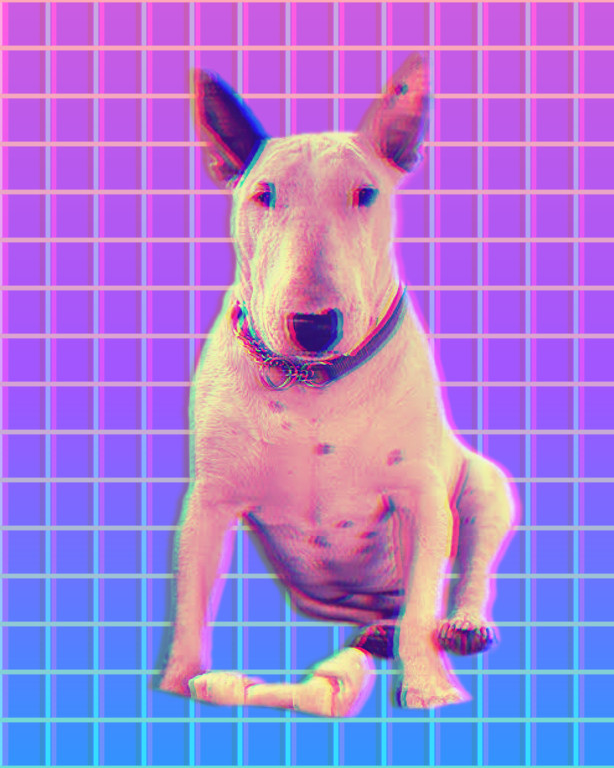
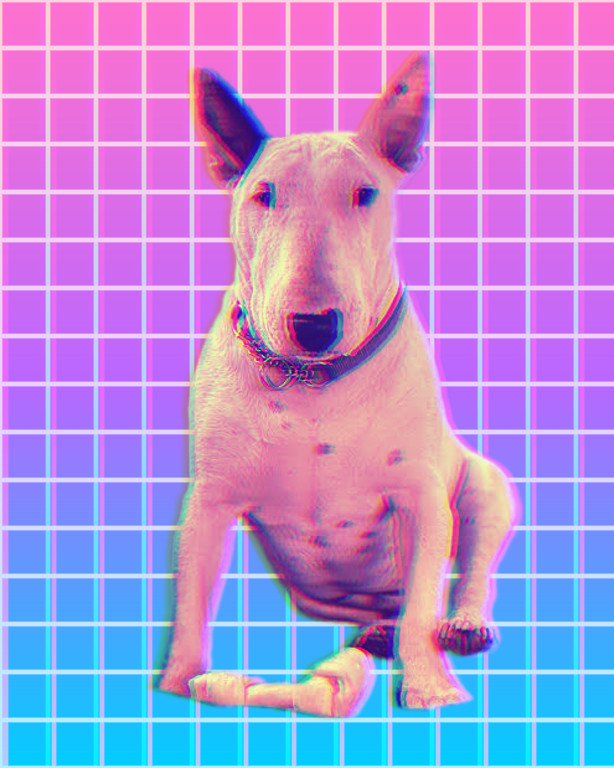
docs(examples): screen the vaporwave grid over its gradient
The grid was mixed in at 40% with a violet background, which washed the sunset gradient out. With
blend_mode = "screen" and a black background the gradient keeps its colours between the lines and
the lines lighten it like light, which is what a neon grid is. Picture re-rendered at quality 90.

diff --git a/README.md b/README.md
@@ -68,7 +68,7 @@ Every picture here is made from one photo by the recipe linked under it (`exampl
   </tr>
   <tr>
     <td valign="top"><a href="examples/recipes/cyberpunk.toml"><b>cyberpunk</b></a><br><sub>A neon night street: magenta and violet grade, colour fringes, scanlines, a glow, rain and the curved glass of a tube. Would gain neon edges (batch 8).<br><code>split_tone</code> <code>chromatic_aberration</code> <code>scanlines</code> <code>bloom</code> <code>rain</code> <code>vignette</code> <code>crt</code></sub></td>
-    <td valign="top"><a href="examples/recipes/vaporwave.toml"><b>vaporwave</b></a><br><sub>A sunset gradient with a grid behind a duotoned dog, split into colour ghosts.<br><code>gradient</code> <code>pattern</code> <code>gradient_map</code> <code>rgb_split</code></sub></td>
+    <td valign="top"><a href="examples/recipes/vaporwave.toml"><b>vaporwave</b></a><br><sub>A sunset gradient with a glowing grid screened over it behind a duotoned dog, split into colour ghosts.<br><code>gradient</code> <code>pattern</code> <code>gradient_map</code> <code>rgb_split</code></sub></td>
     <td valign="top"><a href="examples/recipes/terminal.toml"><b>terminal</b></a><br><sub>The photo as a green phosphor terminal: characters on a curved CRT screen with a shadow mask, scanlines and glow.<br><code>clarity</code> <code>ascii</code> <code>crt</code></sub></td>
     <td valign="top"><a href="examples/recipes/newsprint.toml"><b>newsprint</b></a><br><sub>A newspaper clipping: black and white dots on off-white paper with a torn edge. Would gain CMYK dots (batch 7) and a faded sepia (the sepia preset of gradient_map).<br><code>black_and_white</code> <code>clarity</code> <code>levels</code> <code>halftone</code> <code>paper_texture</code> <code>torn_edge</code></sub></td>
     <td valign="top"><a href="examples/recipes/northern-lights.toml"><b>northern-lights</b></a><br><sub>The dog under a night sky: aurora curtains and stars behind, a cold tint on the fur, a rim of aurora light on the edge, a soft glow.<br><code>aurora</code> <code>starfield</code> <code>split_tone</code> <code>rim_light</code> <code>bloom</code> <code>grain</code></sub></td>
